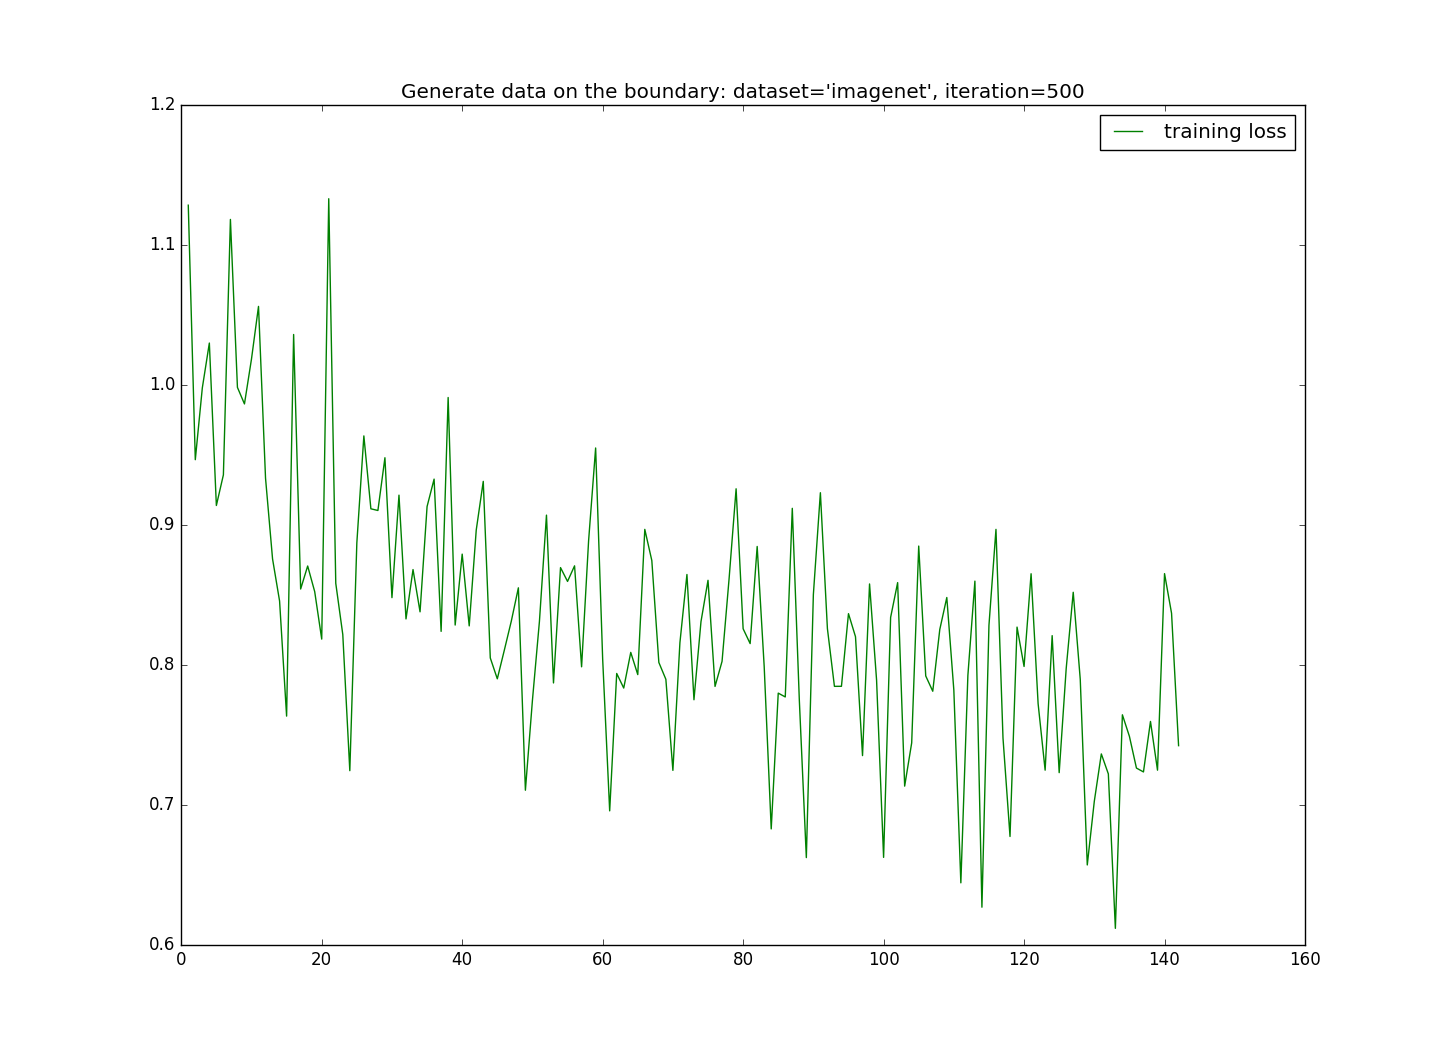
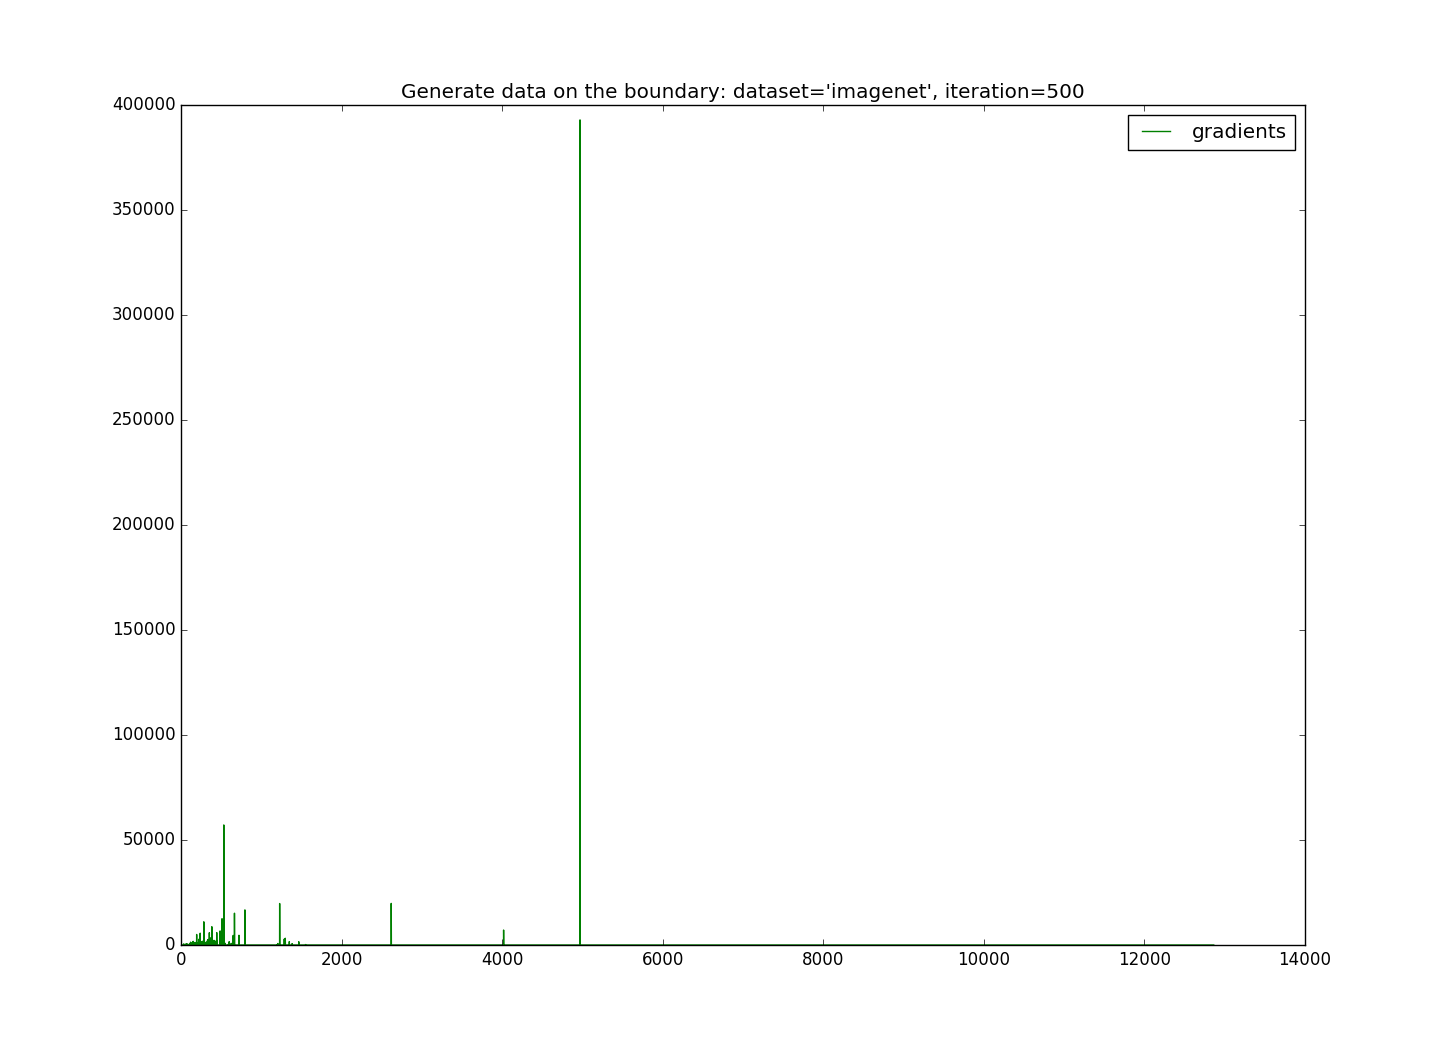
modify plot file to plot different figures

diff --git a/tools/plot_loss.py b/tools/plot_loss.py
@@ -12,13 +12,14 @@ Output: loss_log.png The file of loss curve.
 import matplotlib.pyplot as plt
 import sys
 
-filename = input("Input:")
+#filename = input("Input:")
 #filename = "E:\Desktop\Cycle_GAN\CycleGAN-and-pix2pix-master\Experiments\horse2zebra\result\loss_log.txt"
-#filename = "/home/uts/param.log"
+filename = "../../param.log"
 show_freq = 1  # control whether print every loss on the figure. show_freq for print every 'show_freq'
 
 loss = []
 itera = []
+grad = []
 flag = False
 i = -1
 
@@ -30,19 +31,25 @@ else:
     filelines = f.readlines()
     for fileline in filelines:
         # print (fileline[25:30])
-        if fileline[25:30] == 'epoch':
+        if 'Generator Gradient:' in fileline:
             i += 1  
             if i % show_freq == 0:
-                fileline = fileline[25:-1]
-                fileline = fileline.split(',')
-                for eachline in fileline:
-                    eachline = eachline.replace(' ','').split(':')
-                    if flag:
-                        loss.append(float(eachline[1]))
-                        flag = False
-                    else:
-                        itera.append(int(eachline[1])) 
-                        flag = True
+                fileline = fileline.split(':')
+                grad.append(float(fileline[-1].strip()))
+                itera.append(i)
+        # if fileline[25:30] == 'epoch':
+        #     i += 1  
+        #     if i % show_freq == 0:
+        #         fileline = fileline[25:-1]
+        #         fileline = fileline.split(',')
+        #         for eachline in fileline:
+        #             eachline = eachline.replace(' ','').split(':')
+        #             if flag:
+        #                 loss.append(float(eachline[1]))
+        #                 flag = False
+        #             else:
+        #                 itera.append(int(eachline[1])) 
+        #                 flag = True
     f.close()
         
     
@@ -60,12 +67,15 @@ else:
     # plt.plot(itera,G_A,'g')
     # plt.plot(itera,Cyc_A,'b')
     # label = ["D_A","G_A","Cyc_A"]
-    plt.plot(itera,loss,'g')
-    label = ['training loss']
+    plt.plot(itera,grad,'g')
+    label = ['gradients']
     plt.legend(label,loc=0,ncol=3)
     
     title = 'Generate data on the boundary: dataset=\'imagenet\', iteration=500'
     plt.title(title)
     plt.savefig("loss_log.png")
+    plt.show()
+
+    plt.hist(grad,bins=100,normed=True)
     plt.show()
     
